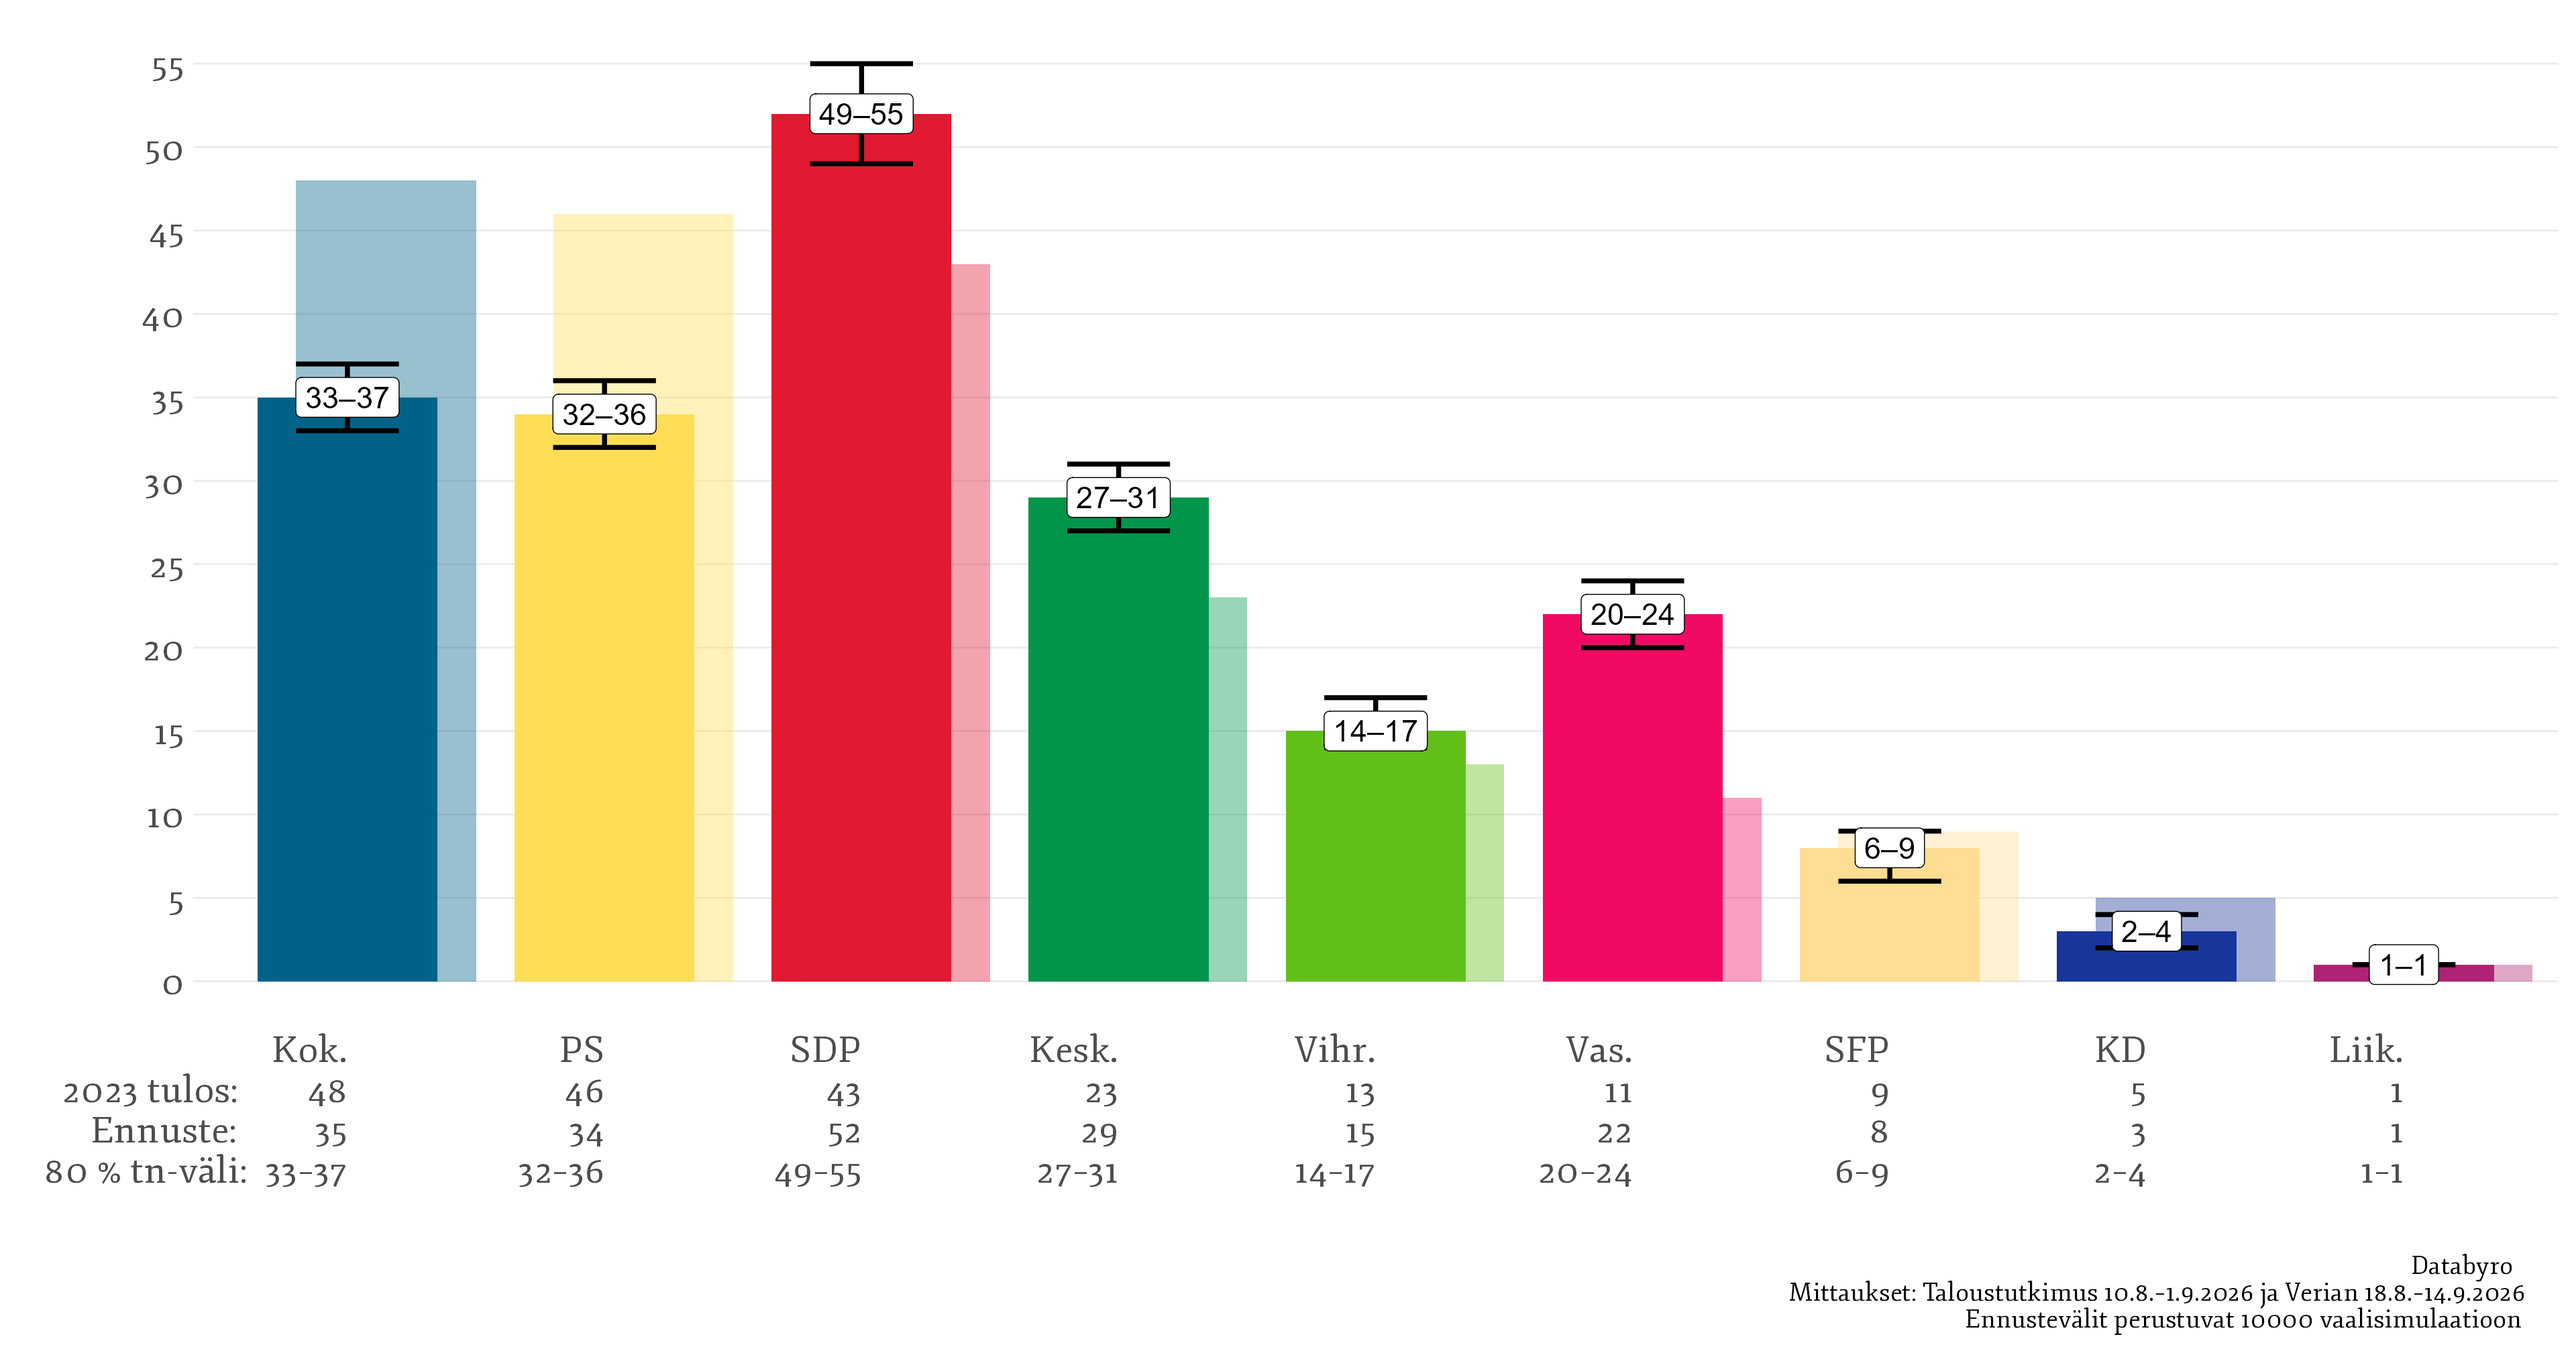
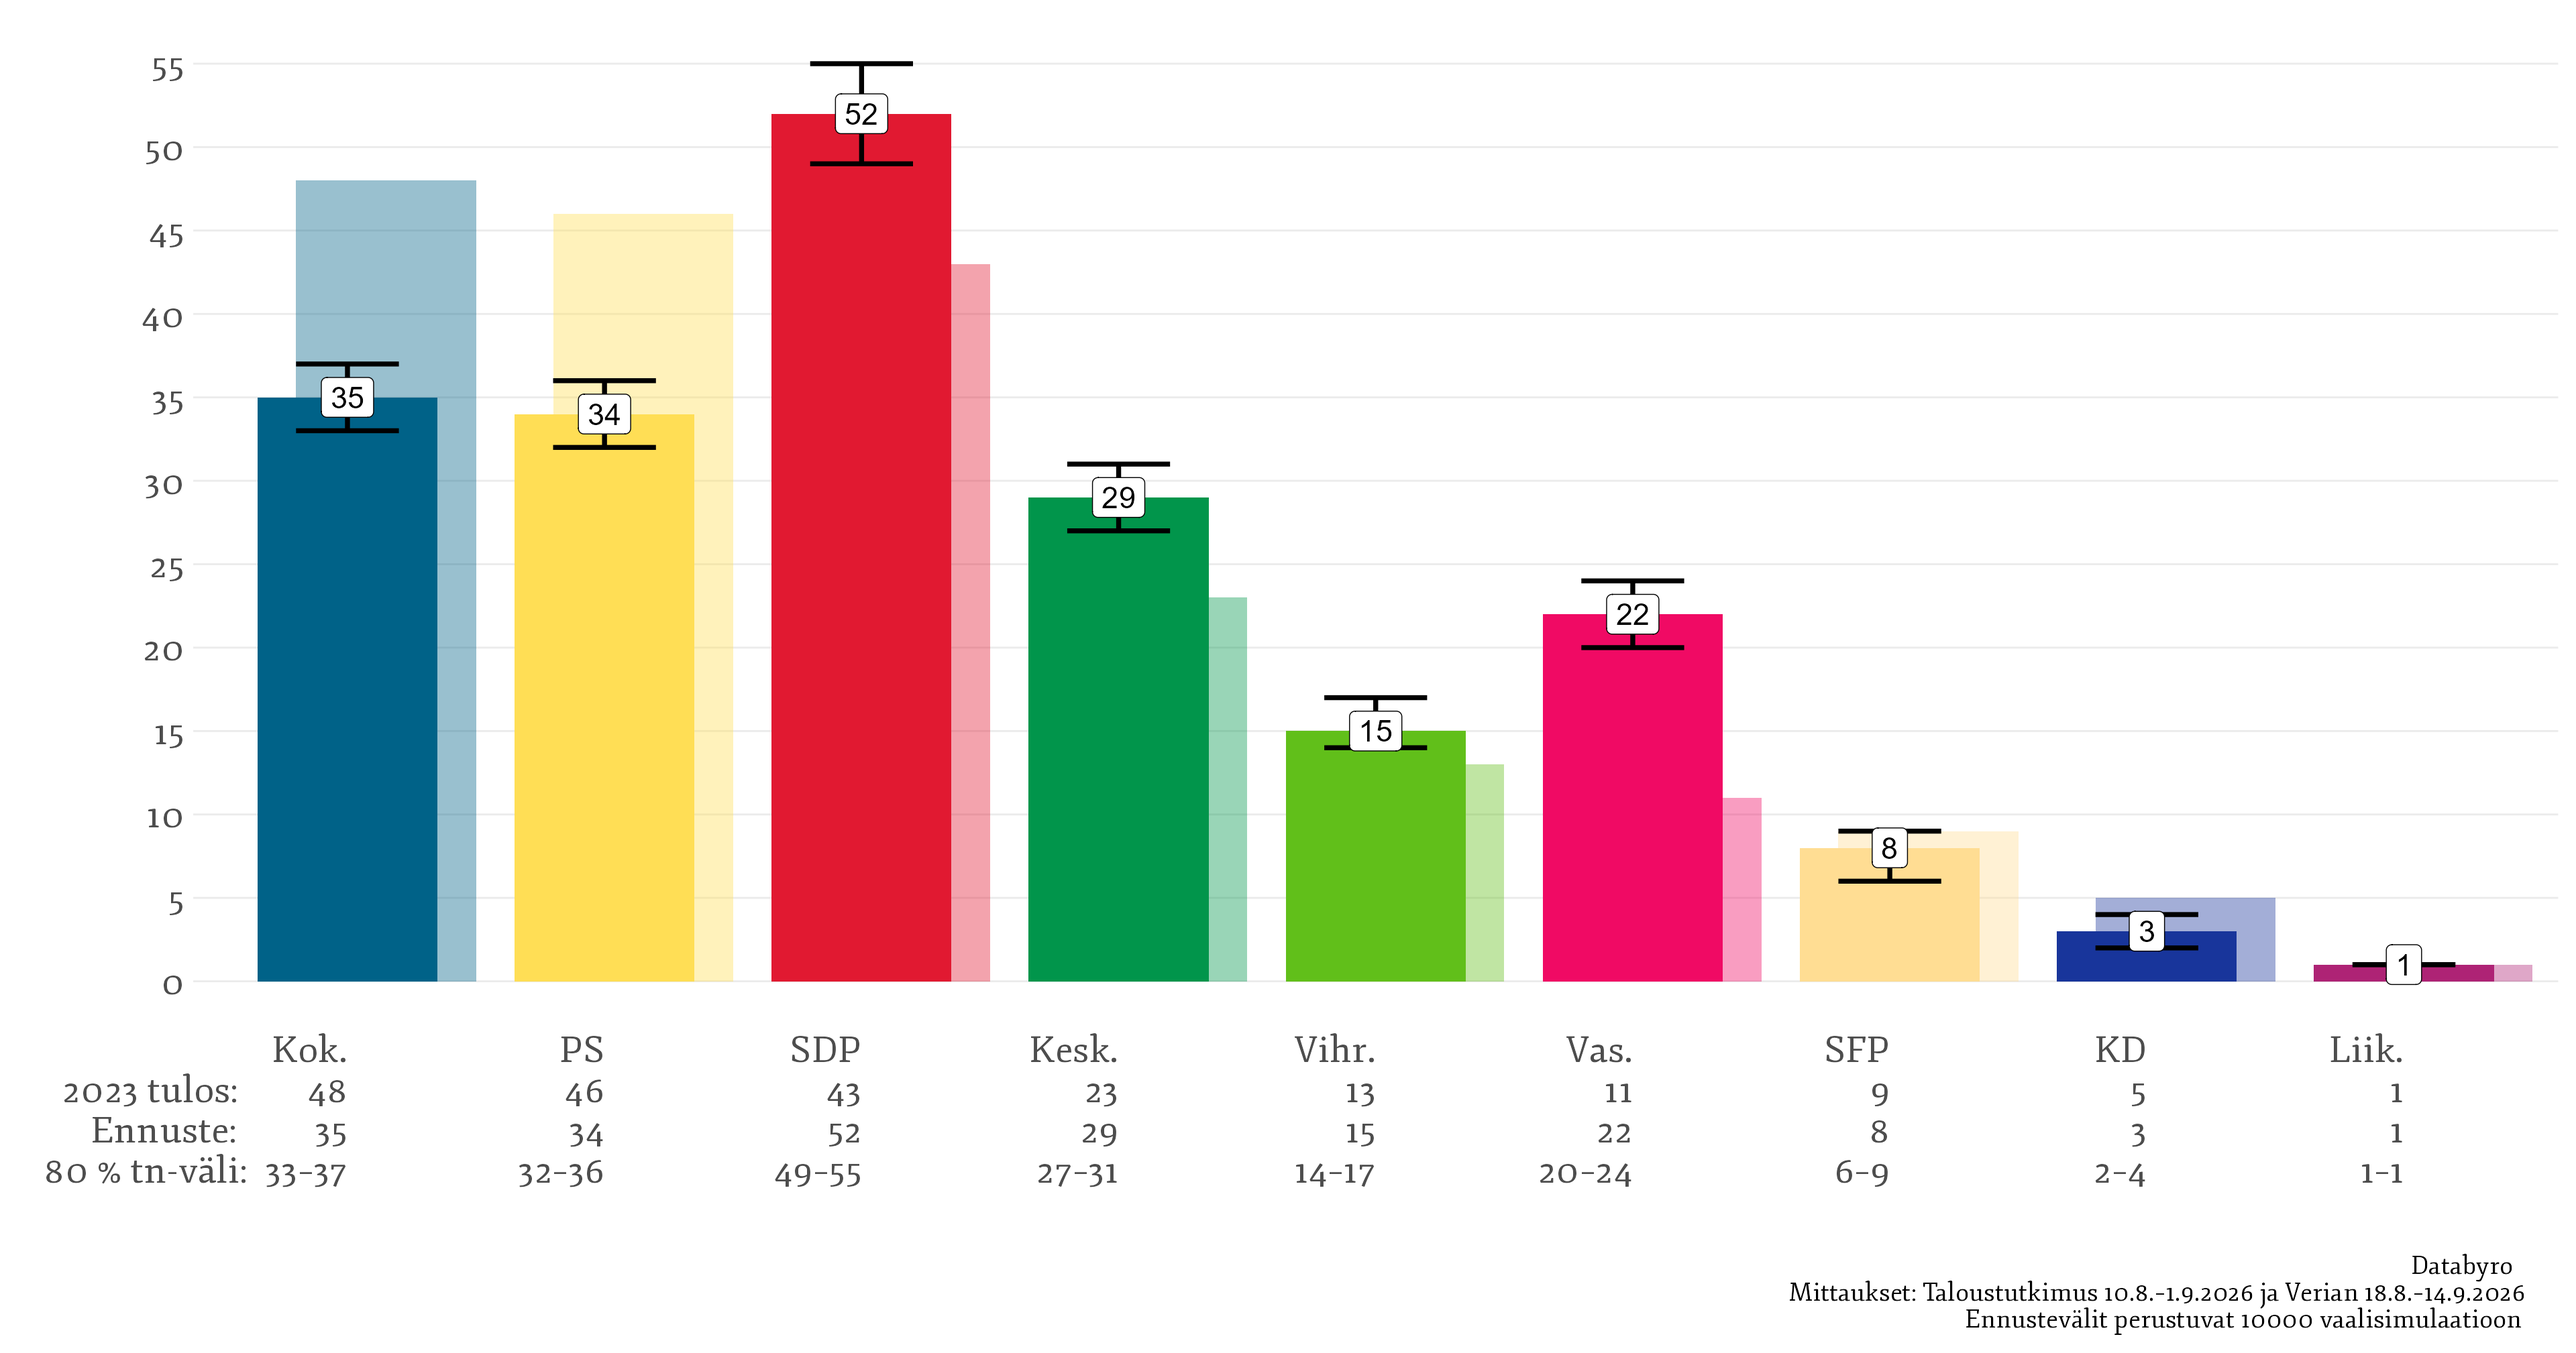
Add files via upload

diff --git a/eduskuntavaalit-2027/paikkaennuste/2026-09/index.md b/eduskuntavaalit-2027/paikkaennuste/2026-09/index.md
@@ -1,5 +1,6 @@
 ---
 layout: paikkaennuste
 title: "Paikkaennuste, syyskuu 2026"
+date: 2026-10-20
 ---
-Laskettu jälkikäteen 20.10.2026 kyselyistä Taloustutkimus 10.8.–1.9.2026 ja Verian 18.8.–14.9.2026.
+Laskettu kyselyistä Taloustutkimus 10.8.–1.9.2026 ja Verian 18.8.–14.9.2026.
